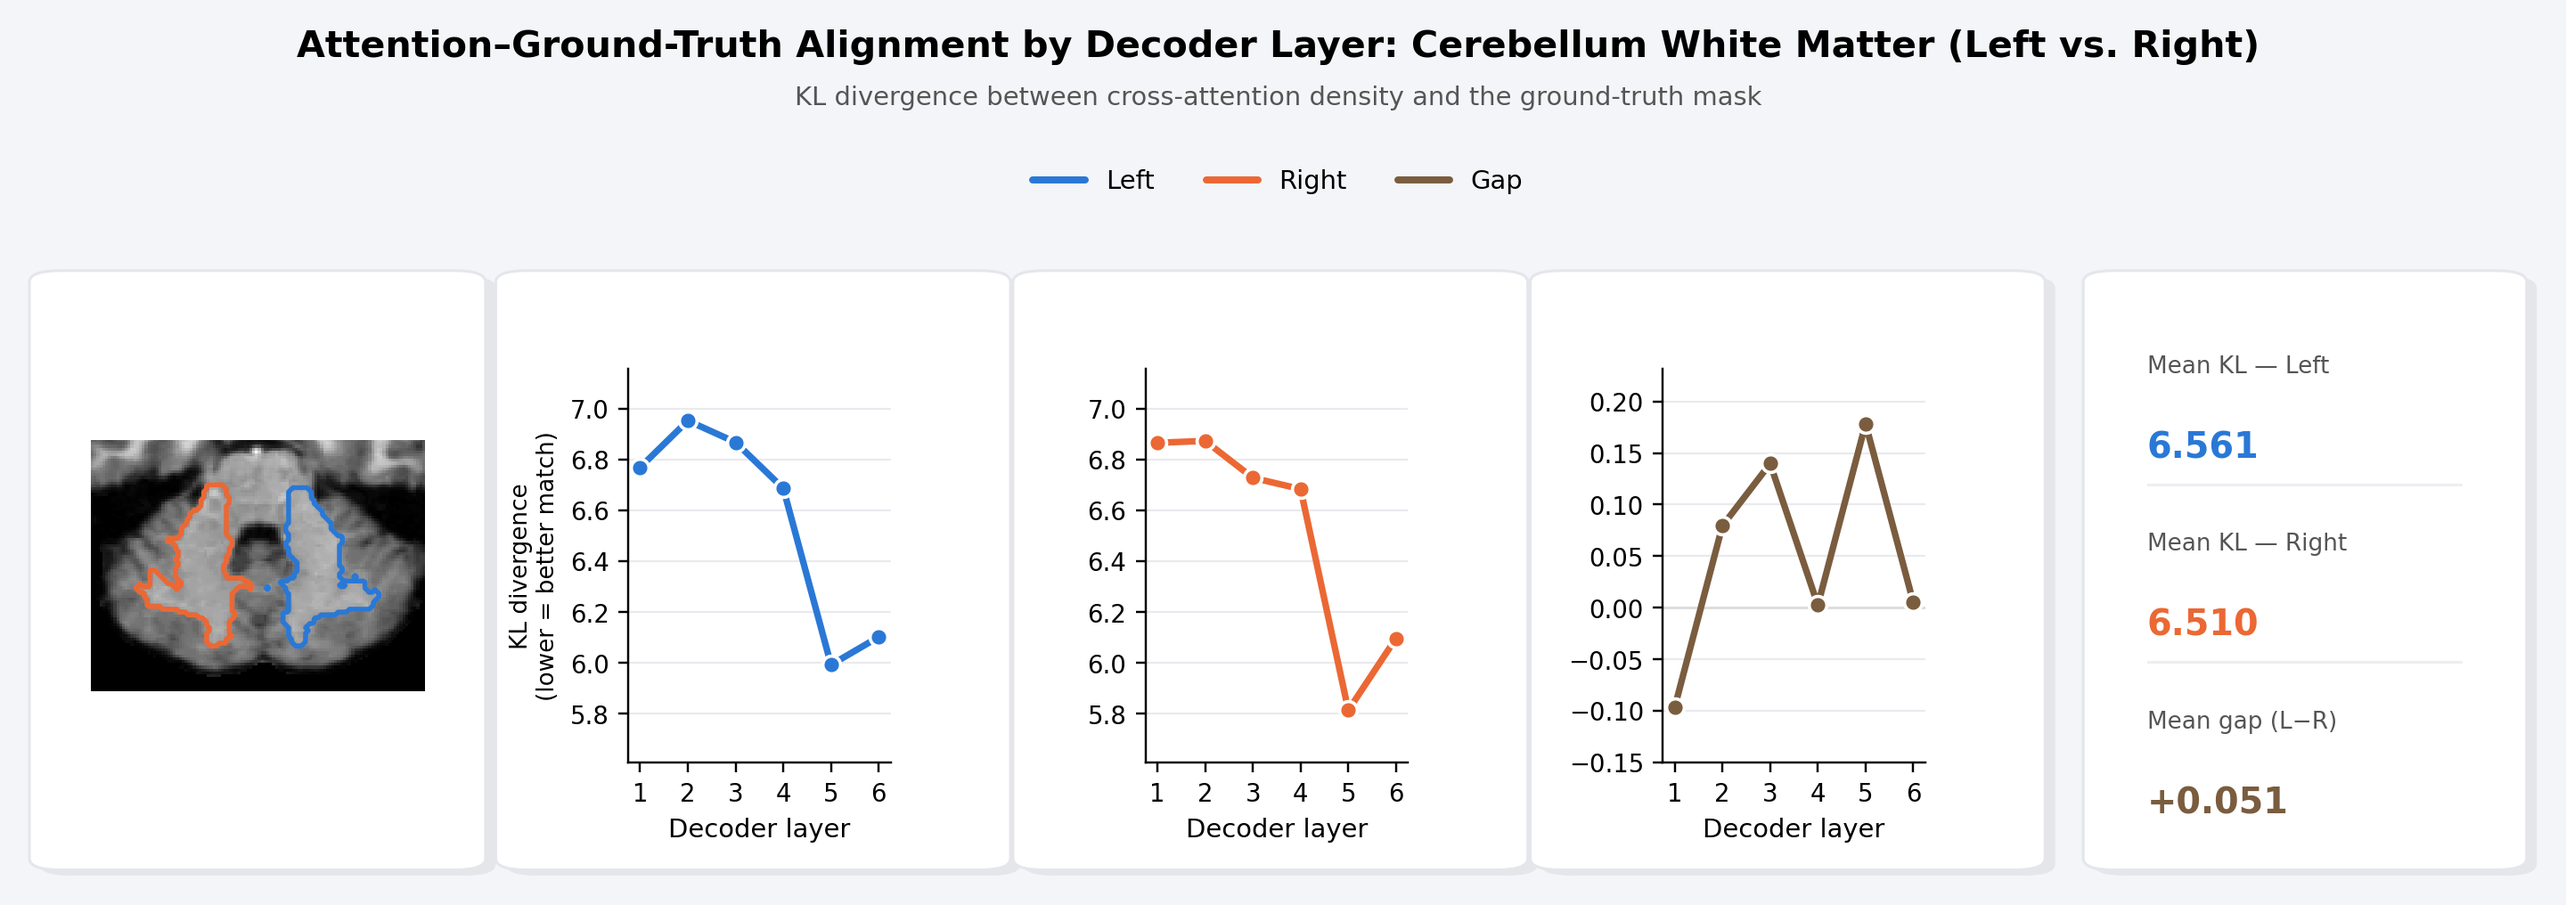
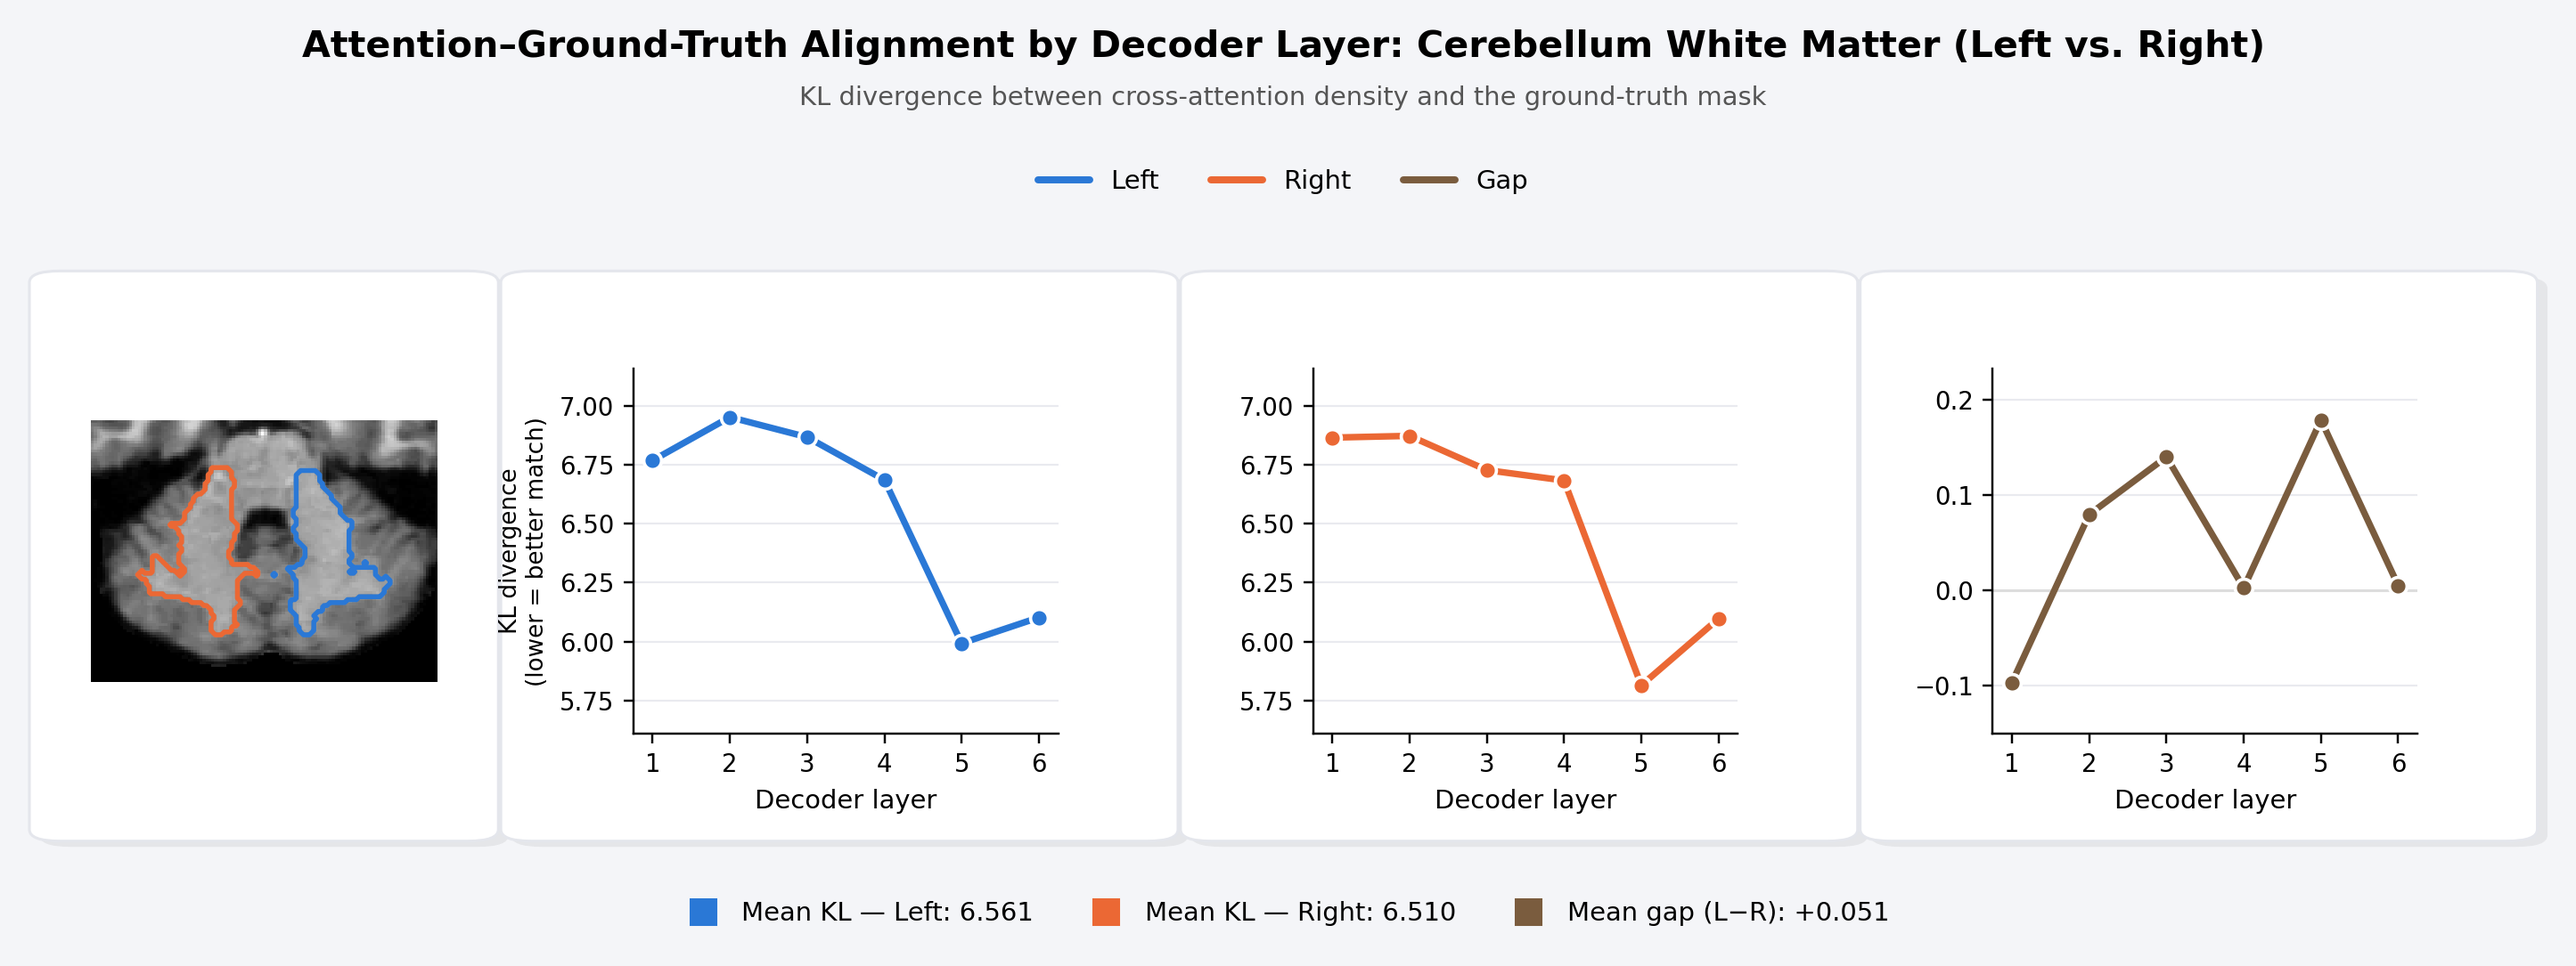
Row18 explainer: equal panel spacing, stats as a bottom legend instead of a card
Anatomy image and the three charts (Left, Right, Gap) now sit at the
same gap distance from each other across the whole figure, and widen
to use the space freed by removing the stats card. The summary numbers
(Mean KL Left/Right, Mean gap) move to a colored legend-style row at
the bottom instead of a boxed card on the right.

diff --git a/scripts/make_rows17_21_figures.py b/scripts/make_rows17_21_figures.py
@@ -535,13 +535,14 @@ def _rounded_card(fig, rect, facecolor="white", edgecolor="#e4e6ec", lw=1.0, sha
 
 def figure_row18_explainer(subj, core, kl_left, kl_right, out_dir):
     """Self-contained, designed version: declarative title, Left/Right/Gap legend only (the organ
-    is already named once in the title), a compact statistics card instead of a prose "Verdict:"
-    sentence, and rounded card panels on a soft page background instead of a flat white chart.
-    Left and right each get their OWN small line chart (not one shared overlay) since they are
-    two different organs with their own per-layer KL curves; a third mini chart plots the
-    layer-by-layer gap (Left - Right) directly instead of relying on a shaded fill. No subject/
+    is already named once in the title), a bottom legend-style row for the summary statistics
+    instead of a card, and rounded card panels on a soft page background instead of a flat white
+    chart. Left and right each get their OWN small line chart (not one shared overlay) since they
+    are two different organs with their own per-layer KL curves; a third mini chart plots the
+    layer-by-layer gap (Left - Right) directly instead of relying on a shaded fill. The anatomy
+    image and the three charts sit at the same gap from each other all the way across. No subject/
     file identifier is printed on the figure, and no floating per-point value labels clutter the
-    lines -- the exact numbers live in the stats card."""
+    lines -- the exact numbers live in the bottom stats legend."""
     left_organ, right_organ = f"left {core}", f"right {core}"
     img2, _, idx3 = subj.slice_of(left_organ)
     gt_l = subj.gt_mask(left_organ)[idx3]
@@ -576,10 +577,11 @@ def figure_row18_explainer(subj, core, kl_left, kl_right, out_dir):
     fig.legend(handles=handles, loc="upper center", bbox_to_anchor=(0.5, 0.862), ncol=3,
                frameon=False, fontsize=9.5)
 
-    CARD_Y, CARD_H = 0.12, 0.60
+    CARD_Y, CARD_H = 0.15, 0.57
+    GAP_X = 0.025
 
     # --- panel (a): anatomical context, on its own card ---------------------------------------------
-    card_a = (0.022, CARD_Y, 0.155, CARD_H)
+    card_a = (0.02, CARD_Y, 0.16, CARD_H)
     _rounded_card(fig, card_a, pad_in=0.012)
     ax_a = fig.add_axes([card_a[0] + 0.012, card_a[1] + 0.03, card_a[2] - 0.024, card_a[3] - 0.05])
     ax_a.imshow(img2c, cmap="gray", origin="lower")
@@ -598,8 +600,10 @@ def figure_row18_explainer(subj, core, kl_left, kl_right, out_dir):
     y_hi = max(dfl[col_actual].max(), dfr[col_actual].max())
     y_pad = (y_hi - y_lo) * 0.18 or 0.05
 
+    CHART_W = 0.2417
+
     def _mini_chart(x0, layer, actual_vals, color):
-        card = (x0, CARD_Y, 0.178, CARD_H)
+        card = (x0, CARD_Y, CHART_W, CARD_H)
         _rounded_card(fig, card, pad_in=0.012)
         ax = fig.add_axes([card[0] + 0.040, card[1] + 0.10, card[2] - 0.075, card[3] - 0.19])
         _paper_axes_style(ax)
@@ -612,35 +616,29 @@ def figure_row18_explainer(subj, core, kl_left, kl_right, out_dir):
         ax.set_xticks(list(layer))
         return ax
 
-    ax_left = _mini_chart(0.205, dfl.layer, dfl[col_actual], BLUE)
+    left_x0 = card_a[0] + card_a[2] + GAP_X
+    ax_left = _mini_chart(left_x0, dfl.layer, dfl[col_actual], BLUE)
     ax_left.set_ylim(y_lo - y_pad, y_hi + y_pad)
     ax_left.set_ylabel("KL divergence\n(lower = better match)", fontsize=8.6, color=PAPER_INK)
 
-    ax_right = _mini_chart(0.408, dfr.layer, dfr[col_actual], ORANGE)
+    right_x0 = left_x0 + CHART_W + GAP_X
+    ax_right = _mini_chart(right_x0, dfr.layer, dfr[col_actual], ORANGE)
     ax_right.set_ylim(y_lo - y_pad, y_hi + y_pad)
 
-    ax_gap = _mini_chart(0.611, dfl.layer, gap_actual_by_layer, GAP_C)
+    gap_x0 = right_x0 + CHART_W + GAP_X
+    ax_gap = _mini_chart(gap_x0, dfl.layer, gap_actual_by_layer, GAP_C)
     ax_gap.axhline(0, color=PAPER_GRID, linewidth=1.0, zorder=1)
     g_pad = (max(abs(gap_actual_by_layer.min()), abs(gap_actual_by_layer.max())) * 0.3) or 0.02
     ax_gap.set_ylim(gap_actual_by_layer.min() - g_pad, gap_actual_by_layer.max() + g_pad)
 
-    # --- panel (c): compact statistics card, not a prose sentence ------------------------------------
-    card_c = (0.828, CARD_Y, 0.15, CARD_H)
-    _rounded_card(fig, card_c, pad_in=0.012)
-    ax_c = fig.add_axes([card_c[0] + 0.013, card_c[1] + 0.02, card_c[2] - 0.026, card_c[3] - 0.04])
-    ax_c.axis("off")
-    stat_rows = [
-        ("Mean KL — Left", f"{mean_l:.3f}", BLUE),
-        ("Mean KL — Right", f"{mean_r:.3f}", ORANGE),
-        ("Mean gap (L−R)", f"{mean_gap:+.3f}", GAP_C),
+    # --- bottom summary stats, as a legend row (colored swatch + text), not a card ------------------
+    stat_handles = [
+        Line2D([], [], color=BLUE, lw=0, marker="s", markersize=9, label=f"Mean KL — Left: {mean_l:.3f}"),
+        Line2D([], [], color=ORANGE, lw=0, marker="s", markersize=9, label=f"Mean KL — Right: {mean_r:.3f}"),
+        Line2D([], [], color=GAP_C, lw=0, marker="s", markersize=9, label=f"Mean gap (L−R): {mean_gap:+.3f}"),
     ]
-    y0 = 0.90
-    for i, (label, value, color) in enumerate(stat_rows):
-        ax_c.text(0.0, y0, label, fontsize=8.6, color=PAPER_MUTED, transform=ax_c.transAxes, va="top")
-        ax_c.text(0.0, y0 - 0.14, value, fontsize=13, fontweight="bold", color=color, transform=ax_c.transAxes, va="top")
-        y0 -= 0.33
-        if i < len(stat_rows) - 1:
-            ax_c.plot([0, 1], [y0 + 0.09, y0 + 0.09], color="#edeef2", linewidth=1, transform=ax_c.transAxes)
+    fig.legend(handles=stat_handles, loc="lower center", bbox_to_anchor=(0.5, 0.025), ncol=3,
+               frameon=False, fontsize=9.5, handletextpad=0.5, columnspacing=1.8)
 
     return savefig(fig, out_dir / core.replace(" ", "_") / "row18_explainer.png")
 
